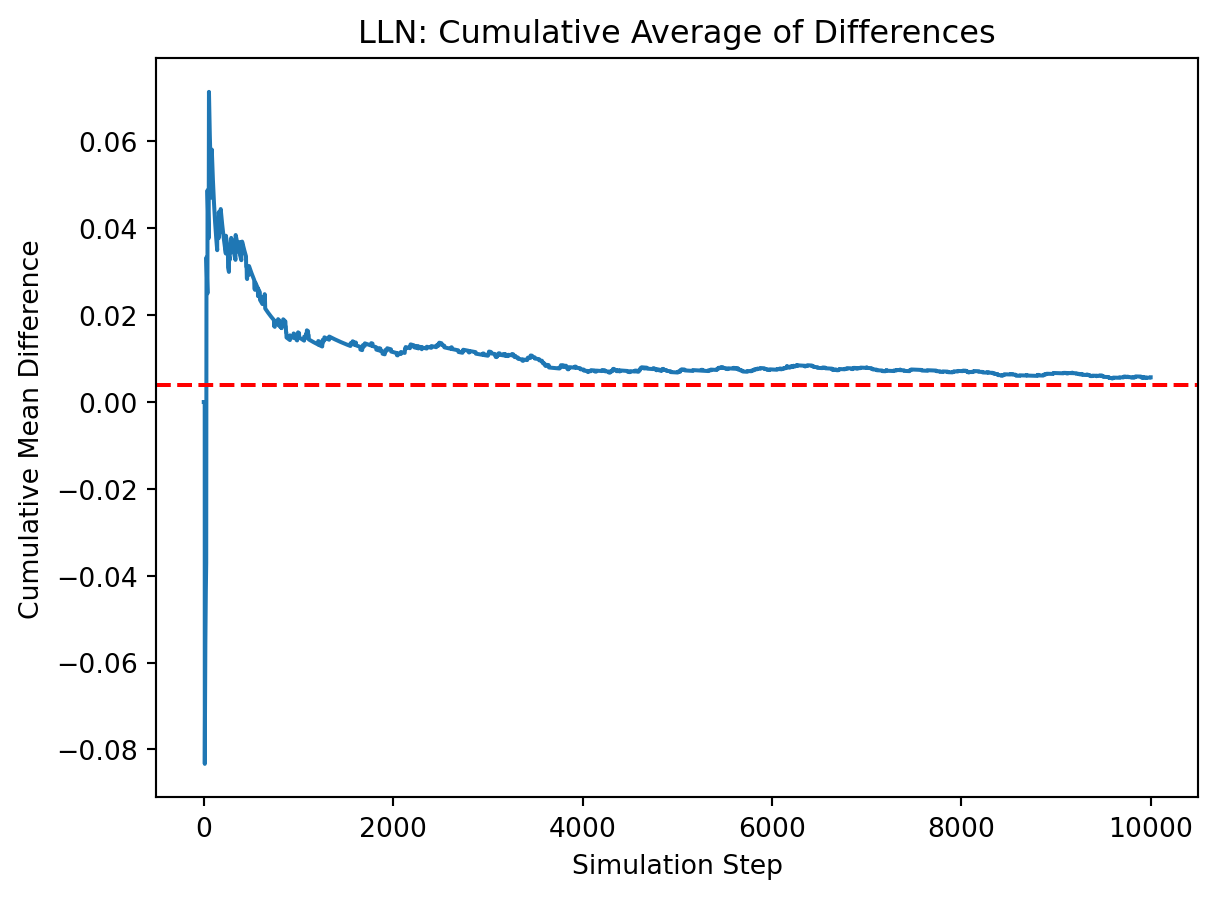
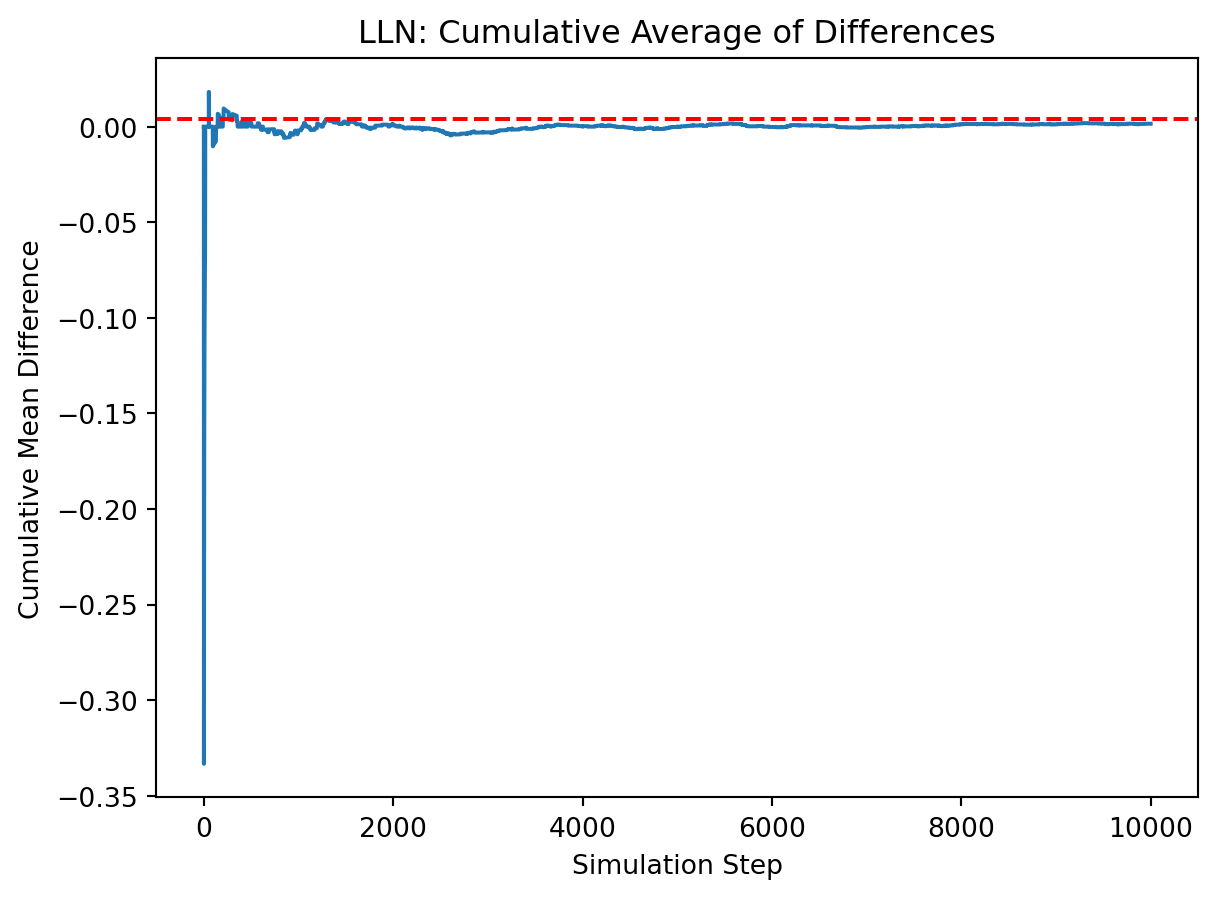
hw1-6

diff --git a/docs/blog/project1/hw1.html b/docs/blog/project1/hw1.html
@@ -232,7 +232,7 @@ pre > code.sourceCode > span > a:first-child::before { text-decoration: underlin
 <section id="description" class="level3">
 <h3 class="anchored" data-anchor-id="description">Description</h3>
 <p>The dataset consists of one row per previous donor who received a fundraising letter. Key variables include whether the individual received a treatment letter or not (‘treatment’), the size of the matching ratio (‘ratio’), and donation outcomes (‘gave’, ‘amount’). It also includes demographic and behavioral variables such as prior donation frequency (freq), recency (‘mrm2’), and location-level characteristics (e.g., ‘red0’, ‘pwhite’).</p>
-<div id="bfc6527f" class="cell" data-execution_count="1">
+<div id="ceb268fc" class="cell" data-execution_count="1">
 <div class="cell-output cell-output-display" data-execution_count="1">
 <div>
 
@@ -630,22 +630,23 @@ Variable Definitions
 <h3 class="anchored" data-anchor-id="balance-test">Balance Test</h3>
 <p>As an ad hoc test of the randomization mechanism, I provide a series of tests that compare aspects of the treatment and control groups to assess whether they are statistically significantly different from one another.</p>
 <p>To test the integrity of the randomization, I compare pre-treatment characteristics such as ‘mrm2’, ‘female’, and ‘freq’ between the treatment and control groups.</p>
-<div id="84e1b855" class="cell" data-execution_count="2">
+<div id="70e3086c" class="cell" data-execution_count="2">
 <div class="sourceCode cell-code" id="cb1"><pre class="sourceCode python code-with-copy"><code class="sourceCode python"><span id="cb1-1"><a href="#cb1-1" aria-hidden="true" tabindex="-1"></a><span class="im">from</span> scipy.stats <span class="im">import</span> ttest_ind</span>
 <span id="cb1-2"><a href="#cb1-2" aria-hidden="true" tabindex="-1"></a><span class="im">import</span> statsmodels.formula.api <span class="im">as</span> smf</span>
 <span id="cb1-3"><a href="#cb1-3" aria-hidden="true" tabindex="-1"></a>df <span class="op">=</span> df[df[<span class="st">'mrm2'</span>].notnull()] </span>
 <span id="cb1-4"><a href="#cb1-4" aria-hidden="true" tabindex="-1"></a><span class="co"># Subset the variable to compare</span></span>
 <span id="cb1-5"><a href="#cb1-5" aria-hidden="true" tabindex="-1"></a>treat <span class="op">=</span> df[df[<span class="st">'treatment'</span>] <span class="op">==</span> <span class="dv">1</span>][<span class="st">'mrm2'</span>]</span>
 <span id="cb1-6"><a href="#cb1-6" aria-hidden="true" tabindex="-1"></a>control <span class="op">=</span> df[df[<span class="st">'treatment'</span>] <span class="op">==</span> <span class="dv">0</span>][<span class="st">'mrm2'</span>]</span>
-<span id="cb1-7"><a href="#cb1-7" aria-hidden="true" tabindex="-1"></a><span class="co"># T-test</span></span>
-<span id="cb1-8"><a href="#cb1-8" aria-hidden="true" tabindex="-1"></a>t_stat, p_val <span class="op">=</span> ttest_ind(treat, control, equal_var<span class="op">=</span><span class="va">False</span>)</span>
-<span id="cb1-9"><a href="#cb1-9" aria-hidden="true" tabindex="-1"></a><span class="bu">print</span>(<span class="ss">f"T-test: t = </span><span class="sc">{</span>t_stat<span class="sc">:.3f}</span><span class="ss">, p = </span><span class="sc">{</span>p_val<span class="sc">:.3f}</span><span class="ss">"</span>)</span></code><button title="Copy to Clipboard" class="code-copy-button"><i class="bi"></i></button></pre></div>
+<span id="cb1-7"><a href="#cb1-7" aria-hidden="true" tabindex="-1"></a>coef <span class="op">=</span> treat.mean()<span class="op">-</span>control.mean()</span>
+<span id="cb1-8"><a href="#cb1-8" aria-hidden="true" tabindex="-1"></a><span class="co"># T-test</span></span>
+<span id="cb1-9"><a href="#cb1-9" aria-hidden="true" tabindex="-1"></a>t_stat, p_val <span class="op">=</span> ttest_ind(treat, control, equal_var<span class="op">=</span><span class="va">False</span>)</span>
+<span id="cb1-10"><a href="#cb1-10" aria-hidden="true" tabindex="-1"></a><span class="bu">print</span>(<span class="ss">f"T-test: t = </span><span class="sc">{</span>t_stat<span class="sc">:.3f}</span><span class="ss">, p = </span><span class="sc">{</span>p_val<span class="sc">:.3f}</span><span class="ss">,corf = </span><span class="sc">{</span>coef<span class="sc">:.3f}</span><span class="ss">"</span>)</span></code><button title="Copy to Clipboard" class="code-copy-button"><i class="bi"></i></button></pre></div>
 <div class="cell-output cell-output-stdout">
-<pre><code>T-test: t = 0.120, p = 0.905</code></pre>
+<pre><code>T-test: t = 0.120, p = 0.905,corf = 0.014</code></pre>
 </div>
 </div>
 <p>Using both Welch’s t-tests and bivariate regressions, I confirm that none of the selected covariates are statistically significantly different at the 5% level. These results match Table 1 of Karlan and List (2007), indicating that the treatment was successfully randomized and there are no meaningful pre-treatment differences.</p>
-<div id="6175a542" class="cell" data-execution_count="3">
+<div id="10f7e85f" class="cell" data-execution_count="3">
 <div class="sourceCode cell-code" id="cb3"><pre class="sourceCode python code-with-copy"><code class="sourceCode python"><span id="cb3-1"><a href="#cb3-1" aria-hidden="true" tabindex="-1"></a>model <span class="op">=</span> smf.ols(<span class="st">'mrm2 ~ treatment'</span>, data<span class="op">=</span>df).fit()</span>
 <span id="cb3-2"><a href="#cb3-2" aria-hidden="true" tabindex="-1"></a>model.summary()</span></code><button title="Copy to Clipboard" class="code-copy-button"><i class="bi"></i></button></pre></div>
 <div class="cell-output cell-output-display" data-execution_count="3">
@@ -678,7 +679,7 @@ Variable Definitions
 </tr>
 <tr class="odd">
 <td data-quarto-table-cell-role="th">Time:</td>
-<td>16:54:51</td>
+<td>17:01:27</td>
 <td data-quarto-table-cell-role="th">Log-Likelihood:</td>
 <td>-1.9585e+05</td>
 </tr>
@@ -782,7 +783,7 @@ Variable Definitions
 <h3 class="anchored" data-anchor-id="charitable-contribution-made">Charitable Contribution Made</h3>
 <p>First, I analyze whether matched donations lead to an increased response rate of making a donation.</p>
 <p>A barplot comparing the response rates between groups shows that the treatment group had a higher donation rate than the control group.</p>
-<div id="1c22e7e3" class="cell" data-execution_count="4">
+<div id="8ee0f742" class="cell" data-execution_count="4">
 <div class="cell-output cell-output-display">
 <div>
 <figure class="figure">
@@ -792,7 +793,7 @@ Variable Definitions
 </div>
 </div>
 <p>A Welch’s t-test confirms this difference is statistically significant (p &lt; 0.01), and a bivariate linear regression of ‘gave ~ treatment’ returns a positive and significant coefficient. This matches the finding in Table 2a, Panel A.</p>
-<div id="1b3cf685" class="cell" data-execution_count="5">
+<div id="61a47412" class="cell" data-execution_count="5">
 <div class="cell-output cell-output-stdout">
 <pre><code>T-test on 'gave': t = 3.2099, p = 0.0013</code></pre>
 </div>
@@ -826,7 +827,7 @@ Variable Definitions
 </tr>
 <tr class="odd">
 <td data-quarto-table-cell-role="th">Time:</td>
-<td>16:54:51</td>
+<td>17:01:28</td>
 <td data-quarto-table-cell-role="th">Log-Likelihood:</td>
 <td>26629.</td>
 </tr>
@@ -923,7 +924,7 @@ Variable Definitions
 </div>
 </div>
 <p>A probit regression, as shown in Table 3 Column 1 of the original study, confirms that being in the treatment group significantly increases the probability of donating. The coefficient on treatment is around 0.325, and statistically significant at the 1% level.</p>
-<div id="e6e3acac" class="cell" data-execution_count="6">
+<div id="358b3f15" class="cell" data-execution_count="6">
 <div class="cell-output cell-output-stdout">
 <pre><code>Optimization terminated successfully.
          Current function value: 0.100445
@@ -959,7 +960,7 @@ Variable Definitions
 </tr>
 <tr class="odd">
 <td data-quarto-table-cell-role="th">Time:</td>
-<td>16:54:52</td>
+<td>17:01:29</td>
 <td data-quarto-table-cell-role="th">Log-Likelihood:</td>
 <td>-5030.5</td>
 </tr>
@@ -1018,14 +1019,14 @@ Variable Definitions
 <h3 class="anchored" data-anchor-id="differences-between-match-rates">Differences between Match Rates</h3>
 <p>Next, I assess the effectiveness of different sizes of matched donations on the response rate.</p>
 <p>Using t-tests, I find no statistically significant difference in response rates between the 1:1 and 2:1 match groups, nor between 2:1 and 3:1. This supports the authors’ observation that “increasing the match ratio above 1:1 does not further increase the probability that an individual gives.”</p>
-<div id="9c1f5406" class="cell" data-execution_count="7">
+<div id="7c3e8fa2" class="cell" data-execution_count="7">
 <div class="cell-output cell-output-stdout">
 <pre><code>1:1 vs 2:1: TtestResult(statistic=0.0, pvalue=1.0, df=22264.0)
 2:1 vs 3:1: TtestResult(statistic=0.0, pvalue=1.0, df=22264.0)</code></pre>
 </div>
 </div>
-<p>In a regression of ‘gave ~ ratio1 + ratio2 + ratio3’, the coefficients are not statistically different from each other. Manually computing response rate differences from the data confirms this: the increase from 1:1 to 2:1 is about 0.0003, and from 2:1 to 3:1 is about -0.0002.</p>
-<div id="a486c943" class="cell" data-execution_count="8">
+<p>In a regression of ‘gave ~ ratio2 + ratio3’, the coefficients are not statistically different from each other. Manually computing response rate differences from the data confirms this: the increase from 1:1 to 2:1 is about 0.0003, and from 2:1 to 3:1 is about -0.0002.</p>
+<div id="f4e70c15" class="cell" data-execution_count="8">
 <div class="cell-output cell-output-display" data-execution_count="8">
 <table class="simpletable caption-top table table-sm table-striped small" data-quarto-postprocess="true">
 <caption>OLS Regression Results</caption>
@@ -1046,17 +1047,17 @@ Variable Definitions
 <td data-quarto-table-cell-role="th">Method:</td>
 <td>Least Squares</td>
 <td data-quarto-table-cell-role="th">F-statistic:</td>
-<td>0.4303</td>
+<td>0.6460</td>
 </tr>
 <tr class="even">
 <td data-quarto-table-cell-role="th">Date:</td>
 <td>Tue, 22 Apr 2025</td>
 <td data-quarto-table-cell-role="th">Prob (F-statistic):</td>
-<td>0.731</td>
+<td>0.524</td>
 </tr>
 <tr class="odd">
 <td data-quarto-table-cell-role="th">Time:</td>
-<td>16:54:52</td>
+<td>17:01:29</td>
 <td data-quarto-table-cell-role="th">Log-Likelihood:</td>
 <td>16687.</td>
 </tr>
@@ -1068,13 +1069,13 @@ Variable Definitions
 </tr>
 <tr class="odd">
 <td data-quarto-table-cell-role="th">Df Residuals:</td>
-<td>33391</td>
+<td>33392</td>
 <td data-quarto-table-cell-role="th">BIC:</td>
-<td>-3.333e+04</td>
+<td>-3.334e+04</td>
 </tr>
 <tr class="even">
 <td data-quarto-table-cell-role="th">Df Model:</td>
-<td>3</td>
+<td>2</td>
 <td data-quarto-table-cell-role="th"></td>
 <td></td>
 </tr>
@@ -1101,39 +1102,30 @@ Variable Definitions
 </tr>
 <tr class="even">
 <td data-quarto-table-cell-role="th">Intercept</td>
-<td>-1.003e+10</td>
-<td>3.36e+11</td>
-<td>-0.030</td>
-<td>0.976</td>
-<td>-6.68e+11</td>
-<td>6.48e+11</td>
+<td>0.0207</td>
+<td>0.001</td>
+<td>14.912</td>
+<td>0.000</td>
+<td>0.018</td>
+<td>0.023</td>
 </tr>
 <tr class="odd">
-<td data-quarto-table-cell-role="th">ratio1</td>
-<td>1.003e+10</td>
-<td>3.36e+11</td>
-<td>0.030</td>
-<td>0.976</td>
-<td>-6.48e+11</td>
-<td>6.68e+11</td>
+<td data-quarto-table-cell-role="th">ratio2</td>
+<td>0.0019</td>
+<td>0.002</td>
+<td>0.959</td>
+<td>0.338</td>
+<td>-0.002</td>
+<td>0.006</td>
 </tr>
 <tr class="even">
-<td data-quarto-table-cell-role="th">ratio2</td>
-<td>1.003e+10</td>
-<td>3.36e+11</td>
-<td>0.030</td>
-<td>0.976</td>
-<td>-6.48e+11</td>
-<td>6.68e+11</td>
-</tr>
-<tr class="odd">
 <td data-quarto-table-cell-role="th">ratio3</td>
-<td>1.003e+10</td>
-<td>3.36e+11</td>
-<td>0.030</td>
-<td>0.976</td>
-<td>-6.48e+11</td>
-<td>6.68e+11</td>
+<td>0.0020</td>
+<td>0.002</td>
+<td>1.008</td>
+<td>0.313</td>
+<td>-0.002</td>
+<td>0.006</td>
 </tr>
 </tbody>
 </table>
@@ -1143,7 +1135,7 @@ Variable Definitions
 <tbody>
 <tr class="odd">
 <td data-quarto-table-cell-role="th">Omnibus:</td>
-<td>38962.316</td>
+<td>38962.359</td>
 <td data-quarto-table-cell-role="th">Durbin-Watson:</td>
 <td>1.995</td>
 </tr>
@@ -1151,7 +1143,7 @@ Variable Definitions
 <td data-quarto-table-cell-role="th">Prob(Omnibus):</td>
 <td>0.000</td>
 <td data-quarto-table-cell-role="th">Jarque-Bera (JB):</td>
-<td>2506231.912</td>
+<td>2506243.318</td>
 </tr>
 <tr class="odd">
 <td data-quarto-table-cell-role="th">Skew:</td>
@@ -1163,11 +1155,11 @@ Variable Definitions
 <td data-quarto-table-cell-role="th">Kurtosis:</td>
 <td>43.393</td>
 <td data-quarto-table-cell-role="th">Cond. No.</td>
-<td>9.65e+14</td>
+<td>3.73</td>
 </tr>
 </tbody>
 </table>
-<br><br>Notes:<br>[1] Standard Errors assume that the covariance matrix of the errors is correctly specified.<br>[2] The smallest eigenvalue is 4.78e-26. This might indicate that there are<br>strong multicollinearity problems or that the design matrix is singular.
+<br><br>Notes:<br>[1] Standard Errors assume that the covariance matrix of the errors is correctly specified.
 </div>
 </div>
 <p>Conclusion: Higher match ratios do not significantly increase the probability of giving, confirming that simply including a match matters more than its size.</p>
@@ -1176,7 +1168,7 @@ Variable Definitions
 <h3 class="anchored" data-anchor-id="size-of-charitable-contribution">Size of Charitable Contribution</h3>
 <p>In this subsection, I analyze the effect of the size of matched donation on the size of the charitable contribution.</p>
 <p>A regression of ‘amount ~ treatment’ shows a small, positive, and statistically significant effect of treatment on donation amount. However, when restricting to individuals who actually donated (‘gave == 1’), the coefficient becomes smaller and statistically insignificant.</p>
-<div id="50758bd7" class="cell" data-execution_count="9">
+<div id="90056e53" class="cell" data-execution_count="9">
 <div class="sourceCode cell-code" id="cb7"><pre class="sourceCode python code-with-copy"><code class="sourceCode python"><span id="cb7-1"><a href="#cb7-1" aria-hidden="true" tabindex="-1"></a>model_amt <span class="op">=</span> smf.ols(<span class="st">'amount ~ treatment'</span>, data<span class="op">=</span>df).fit()</span>
 <span id="cb7-2"><a href="#cb7-2" aria-hidden="true" tabindex="-1"></a>model_amt.summary()</span></code><button title="Copy to Clipboard" class="code-copy-button"><i class="bi"></i></button></pre></div>
 <div class="cell-output cell-output-display" data-execution_count="9">
@@ -1209,7 +1201,7 @@ Variable Definitions
 </tr>
 <tr class="odd">
 <td data-quarto-table-cell-role="th">Time:</td>
-<td>16:54:52</td>
+<td>17:01:29</td>
 <td data-quarto-table-cell-role="th">Log-Likelihood:</td>
 <td>-1.7946e+05</td>
 </tr>
@@ -1306,11 +1298,11 @@ Variable Definitions
 </div>
 </div>
 <p>Histograms of donation amounts for the control and treatment groups (among givers only) show similar distributions, with nearly identical sample means.</p>
-<div id="42efc26a" class="cell" data-execution_count="10">
+<div id="dd544930" class="cell" data-execution_count="10">
 <div class="cell-output cell-output-display">
 <div>
 <figure class="figure">
-<p><img src="hw1_files/figure-html/cell-11-output-1.png" width="950" height="469" class="figure-img"></p>
+<p><img src="hw1_files/figure-html/cell-11-output-1.png" width="854" height="277" class="figure-img"></p>
 </figure>
 </div>
 </div>
@@ -1327,7 +1319,7 @@ Variable Definitions
 <h3 class="anchored" data-anchor-id="law-of-large-numbers">Law of Large Numbers</h3>
 <p>I simulated 100,000 draws from the control distribution and 10,000 from the treatment distribution. I then computed 10,000 differences and plotted their cumulative average.</p>
 <p>The plot shows the cumulative average stabilizing around the true difference (0.004), consistent with the Law of Large Numbers: as sample size increases, the sample mean converges to the true mean.</p>
-<div id="95ac8726" class="cell" data-execution_count="11">
+<div id="b530b7a4" class="cell" data-execution_count="11">
 <div class="sourceCode cell-code" id="cb8"><pre class="sourceCode python code-with-copy"><code class="sourceCode python"><span id="cb8-1"><a href="#cb8-1" aria-hidden="true" tabindex="-1"></a><span class="im">import</span> numpy <span class="im">as</span> np</span>
 <span id="cb8-2"><a href="#cb8-2" aria-hidden="true" tabindex="-1"></a></span>
 <span id="cb8-3"><a href="#cb8-3" aria-hidden="true" tabindex="-1"></a>control <span class="op">=</span> np.random.binomial(<span class="dv">1</span>, <span class="fl">0.018</span>, <span class="dv">100000</span>)</span>
@@ -1356,11 +1348,11 @@ Variable Definitions
 <p>I ran simulations with sample sizes of 50, 200, 500, and 1000. For each size, I drew 1000 samples and computed the difference in means. The resulting histograms become increasingly normal and concentrated as sample size increases.</p>
 <p>In small samples, the distribution is wide and skewed. At larger sizes, it becomes bell-shaped and centered near the true difference. Zero clearly moves from being in the middle (in small samples) to being in the tail (in larger samples).</p>
 <p>This demonstrates the Central Limit Theorem: the sampling distribution of the mean difference becomes approximately normal as sample size increases.</p>
-<div id="6039cd5a" class="cell" data-execution_count="12">
+<div id="fc4e5d7d" class="cell" data-execution_count="12">
 <div class="cell-output cell-output-display">
 <div>
 <figure class="figure">
-<p><img src="hw1_files/figure-html/cell-13-output-1.png" width="950" height="469" class="figure-img"></p>
+<p><img src="hw1_files/figure-html/cell-13-output-1.png" width="950" height="661" class="figure-img"></p>
 </figure>
 </div>
 </div>

diff --git a/docs/blog.html b/docs/blog.html
@@ -203,7 +203,7 @@ window.Quarto = {
 <div class="quarto-listing quarto-listing-container-grid" id="listing-listing">
 <div class="list grid quarto-listing-cols-3">
 
-<div class="g-col-1" data-index="0" data-listing-date-sort="1745305200000" data-listing-file-modified-sort="1745366082229" data-listing-date-modified-sort="NaN" data-listing-reading-time-sort="22" data-listing-word-count-sort="4217">
+<div class="g-col-1" data-index="0" data-listing-date-sort="1745305200000" data-listing-file-modified-sort="1745366478320" data-listing-date-modified-sort="NaN" data-listing-reading-time-sort="22" data-listing-word-count-sort="4217">
 <a href="./blog/project1/hw1.html" class="quarto-grid-link">
 <div class="quarto-grid-item card h-100 card-left">
 
